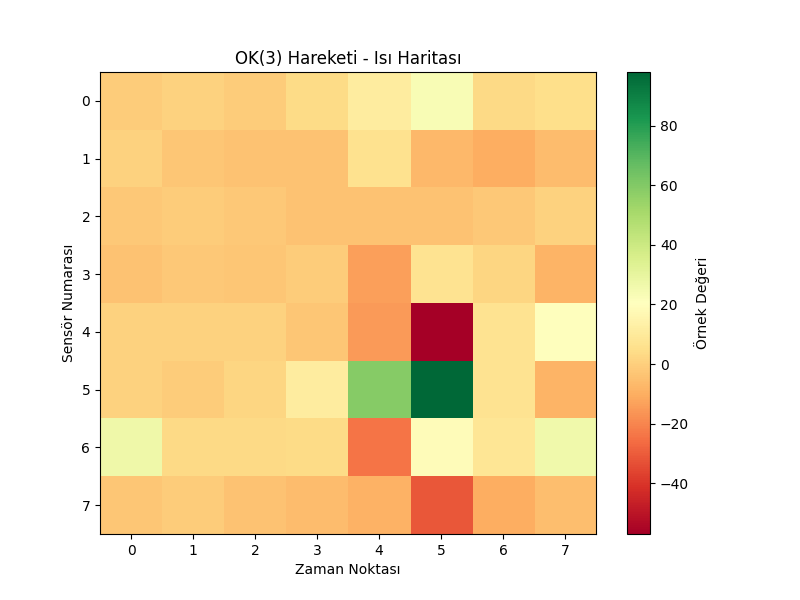
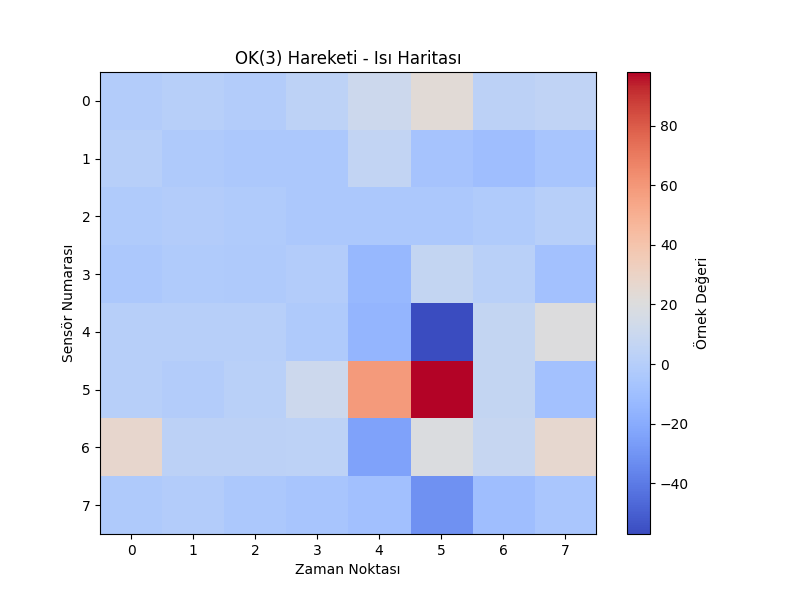
dataprocessor completed but plots should be disccuss

diff --git a/data_processor.py b/data_processor.py
@@ -45,7 +45,8 @@ class DataProcessor:
 
         save_file = os.path.join(self.save_path, f"{class_name.lower().replace(' ', '_')}_line.png")
         plt.savefig(save_file)
-        plt.show()
+        # plt.show()
+
         print(f"{class_name} sınıfı için çizgi grafiği {save_file} konumuna kaydedildi.")
 
     def plot_histograms(self, data_row, class_name):
@@ -62,7 +63,8 @@ class DataProcessor:
 
         save_file = os.path.join(self.save_path, f"{class_name.lower().replace(' ', '_')}_histograms.png")
         plt.savefig(save_file)
-        plt.show()
+        # plt.show()
+
         print(f"{class_name} sınıfı için sensör bazında histogramlar {save_file} konumuna kaydedildi.")
 
     def plot_densities(self, data_row, class_name):
@@ -79,7 +81,8 @@ class DataProcessor:
 
         save_file = os.path.join(self.save_path, f"{class_name.lower().replace(' ', '_')}_densities.png")
         plt.savefig(save_file)
-        plt.show()
+        # plt.show()
+
         print(f"{class_name} sınıfı için yoğunluk grafikleri {save_file} konumuna kaydedildi.")
 
     def plot_box(self, data_row, class_name):
@@ -93,14 +96,15 @@ class DataProcessor:
 
         save_file = os.path.join(self.save_path, f"{class_name.lower().replace(' ', '_')}_box.png")
         plt.savefig(save_file)
-        plt.show()
+        # plt.show()
+
         print(f"{class_name} sınıfı için box plot {save_file} konumuna kaydedildi.")
 
     def plot_heatmap(self, data_row, class_name):
         """Isı Haritası."""
         heatmap_data = data_row.values.reshape(8, 8)
         plt.figure(figsize=(8, 6))
-        plt.imshow(heatmap_data, cmap="RdYlGn", aspect="auto")
+        plt.imshow(heatmap_data, cmap="coolwarm", aspect="auto")
         plt.colorbar(label="Örnek Değeri")
         plt.title(f"{class_name} Hareketi - Isı Haritası")
         plt.xlabel("Zaman Noktası")
@@ -108,7 +112,8 @@ class DataProcessor:
 
         save_file = os.path.join(self.save_path, f"{class_name.lower().replace(' ', '_')}_heatmap.png")
         plt.savefig(save_file)
-        plt.show()
+        # plt.show()
+
         print(f"{class_name} sınıfı için ısı haritası {save_file} konumuna kaydedildi.")
 
     def plot_autocorrelation(self, data_row, class_name):
@@ -123,7 +128,8 @@ class DataProcessor:
 
         save_file = os.path.join(self.save_path, f"{class_name.lower().replace(' ', '_')}_autocorrelation.png")
         plt.savefig(save_file)
-        plt.show()
+        # plt.show()
+
         print(f"{class_name} sınıfı için sensör bazında otomatik korelasyon grafikleri {save_file} konumuna kaydedildi.")
 
     def visualize_each_class(self):
@@ -141,7 +147,7 @@ class DataProcessor:
             # self.plot_densities(sample_row, class_name)
             # self.plot_box(sample_row, class_name)
             self.plot_heatmap(sample_row, class_name)
-            # self.plot_autocorrelation(sample_row, class_name)
+            self.plot_autocorrelation(sample_row, class_name)
 
 if __name__ == "__main__":
     # Veri dosyasının yolu ve sınıf isimleri
